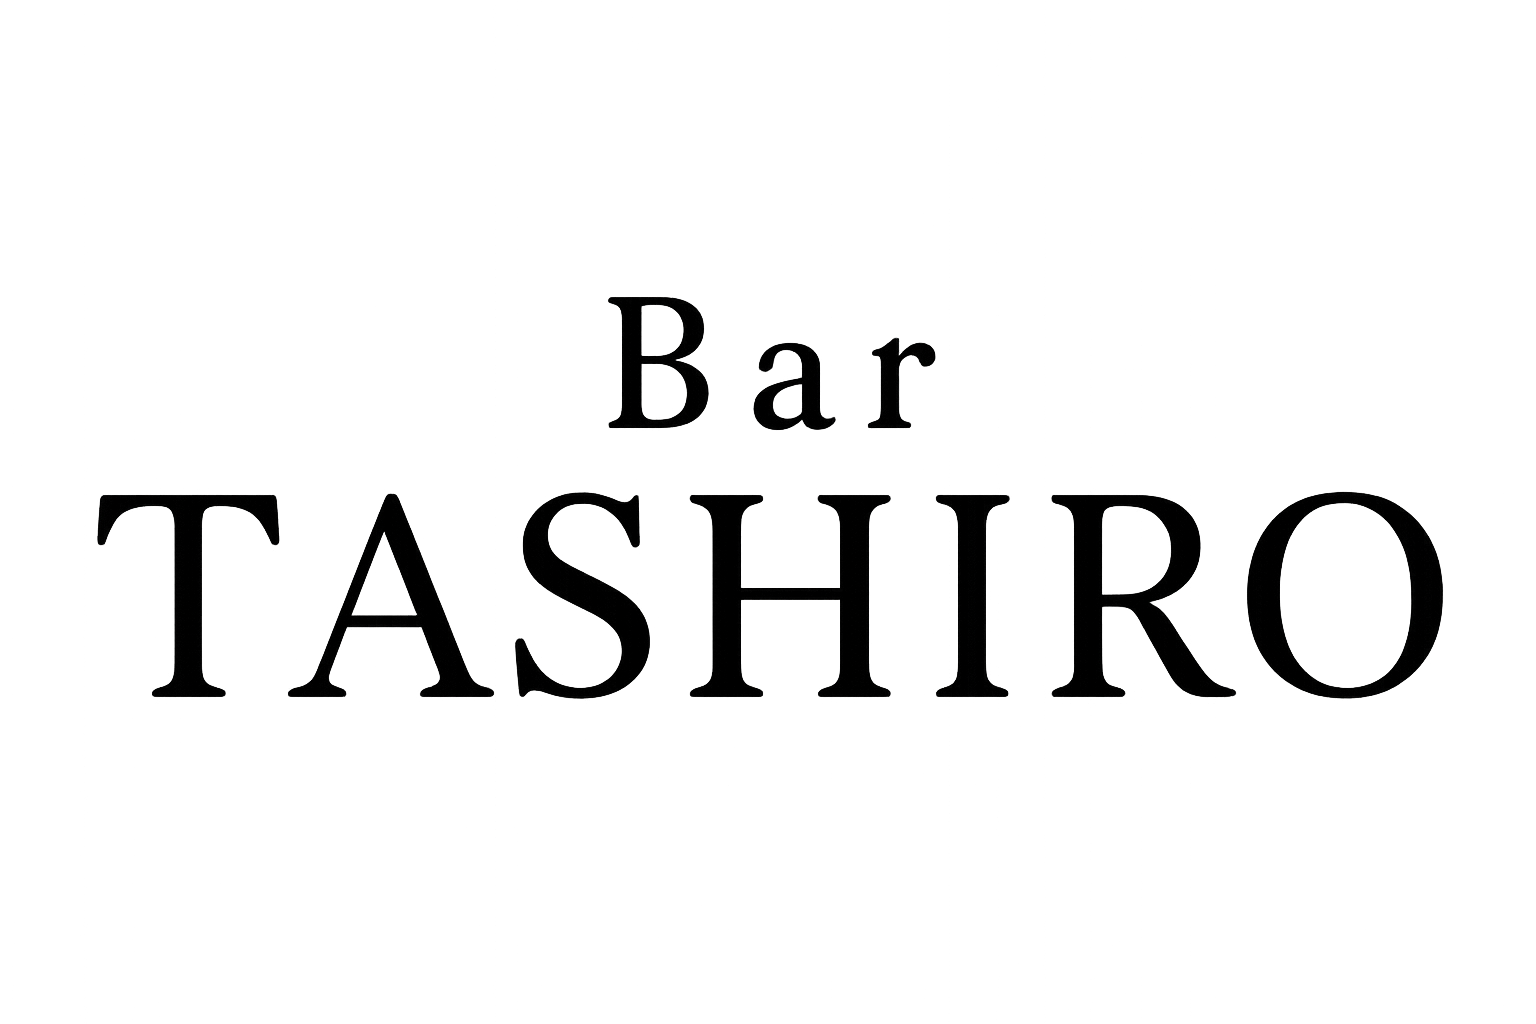
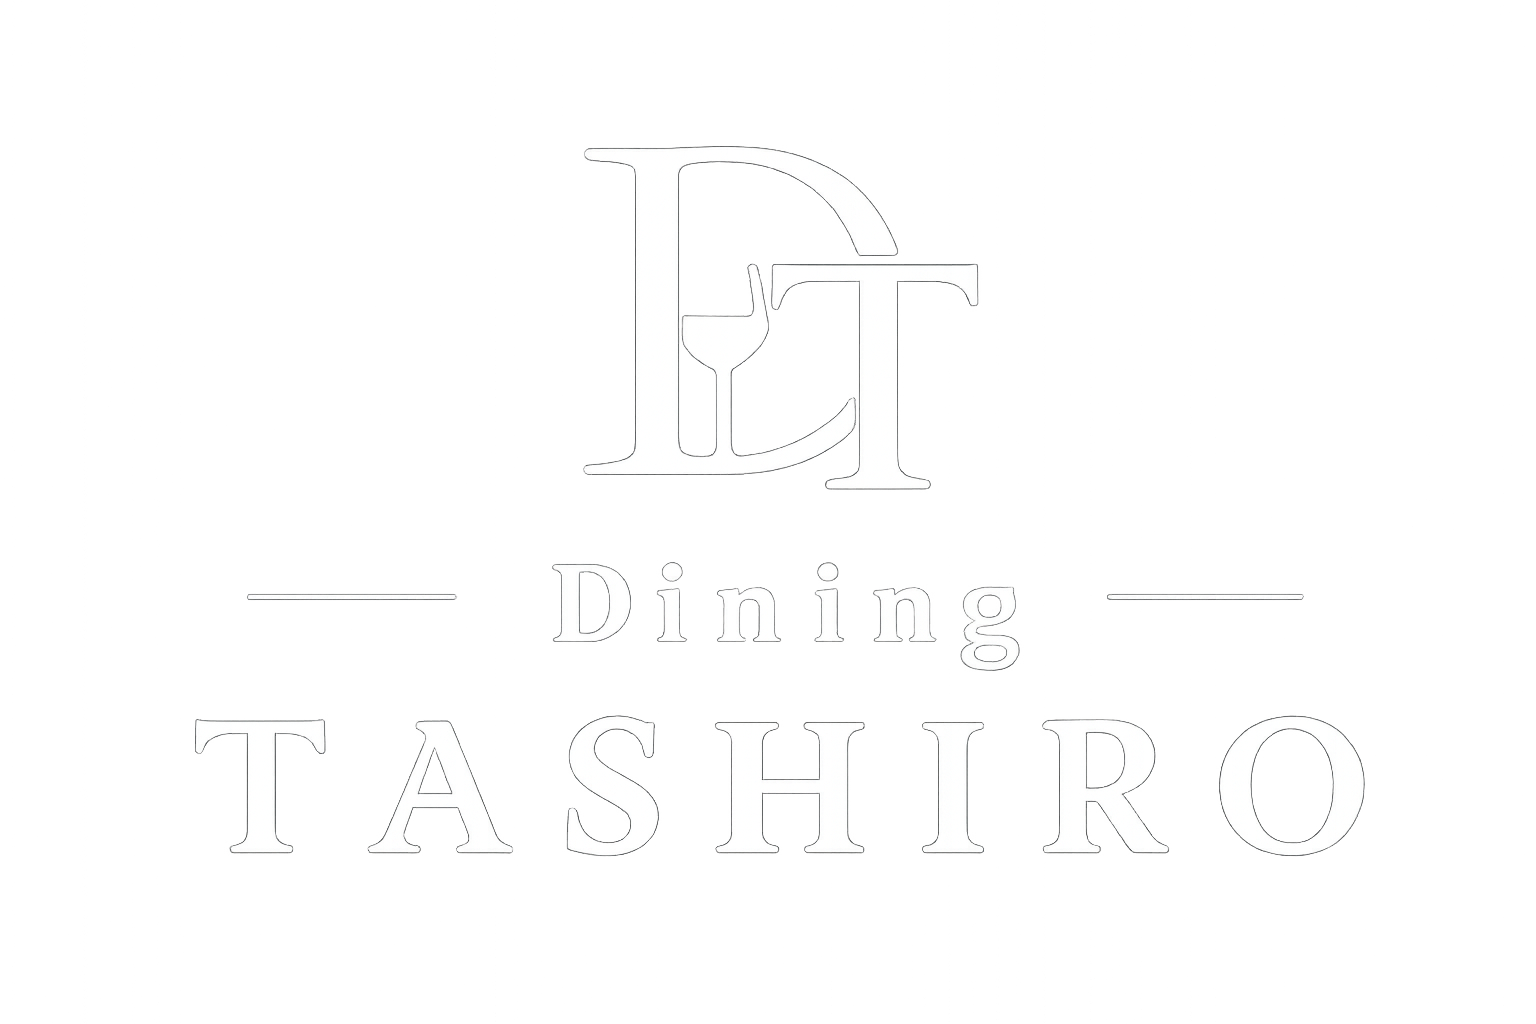
Replace Dining TASHIRO text with title.png and adjust layout

diff --git a/index.html b/index.html
@@ -47,22 +47,18 @@
 
     .dining-title {
       position: fixed;
-      top: 42%;
+      top: 25%;
       left: 50%;
       transform: translateX(-50%);
-      font-size: 2.2rem;
-      color: #ffffff;
-      font-weight: 700;
-      letter-spacing: 0.12em;
-      text-align: center;
-      white-space: nowrap;
+      max-width: 480px;
+      width: 80%;
       opacity: 0;
       animation: fadeIn 1.2s ease forwards;
     }
 
     .subtitle {
       position: fixed;
-      top: calc(42% + 5rem);
+      top: calc(25% + 18rem);
       left: 50%;
       transform: translateX(-50%);
       font-size: 0.9rem;
@@ -162,7 +158,7 @@
   </style>
 </head>
 <body>
-  <div class="dining-title">Dining TASHIRO</div>
+  <img class="dining-title" src="image/title/title.png" alt="Dining TASHIRO">
   <div class="subtitle">巨匠田代監修　おいしい料理とお酒のお店</div>
   <div class="card">
 